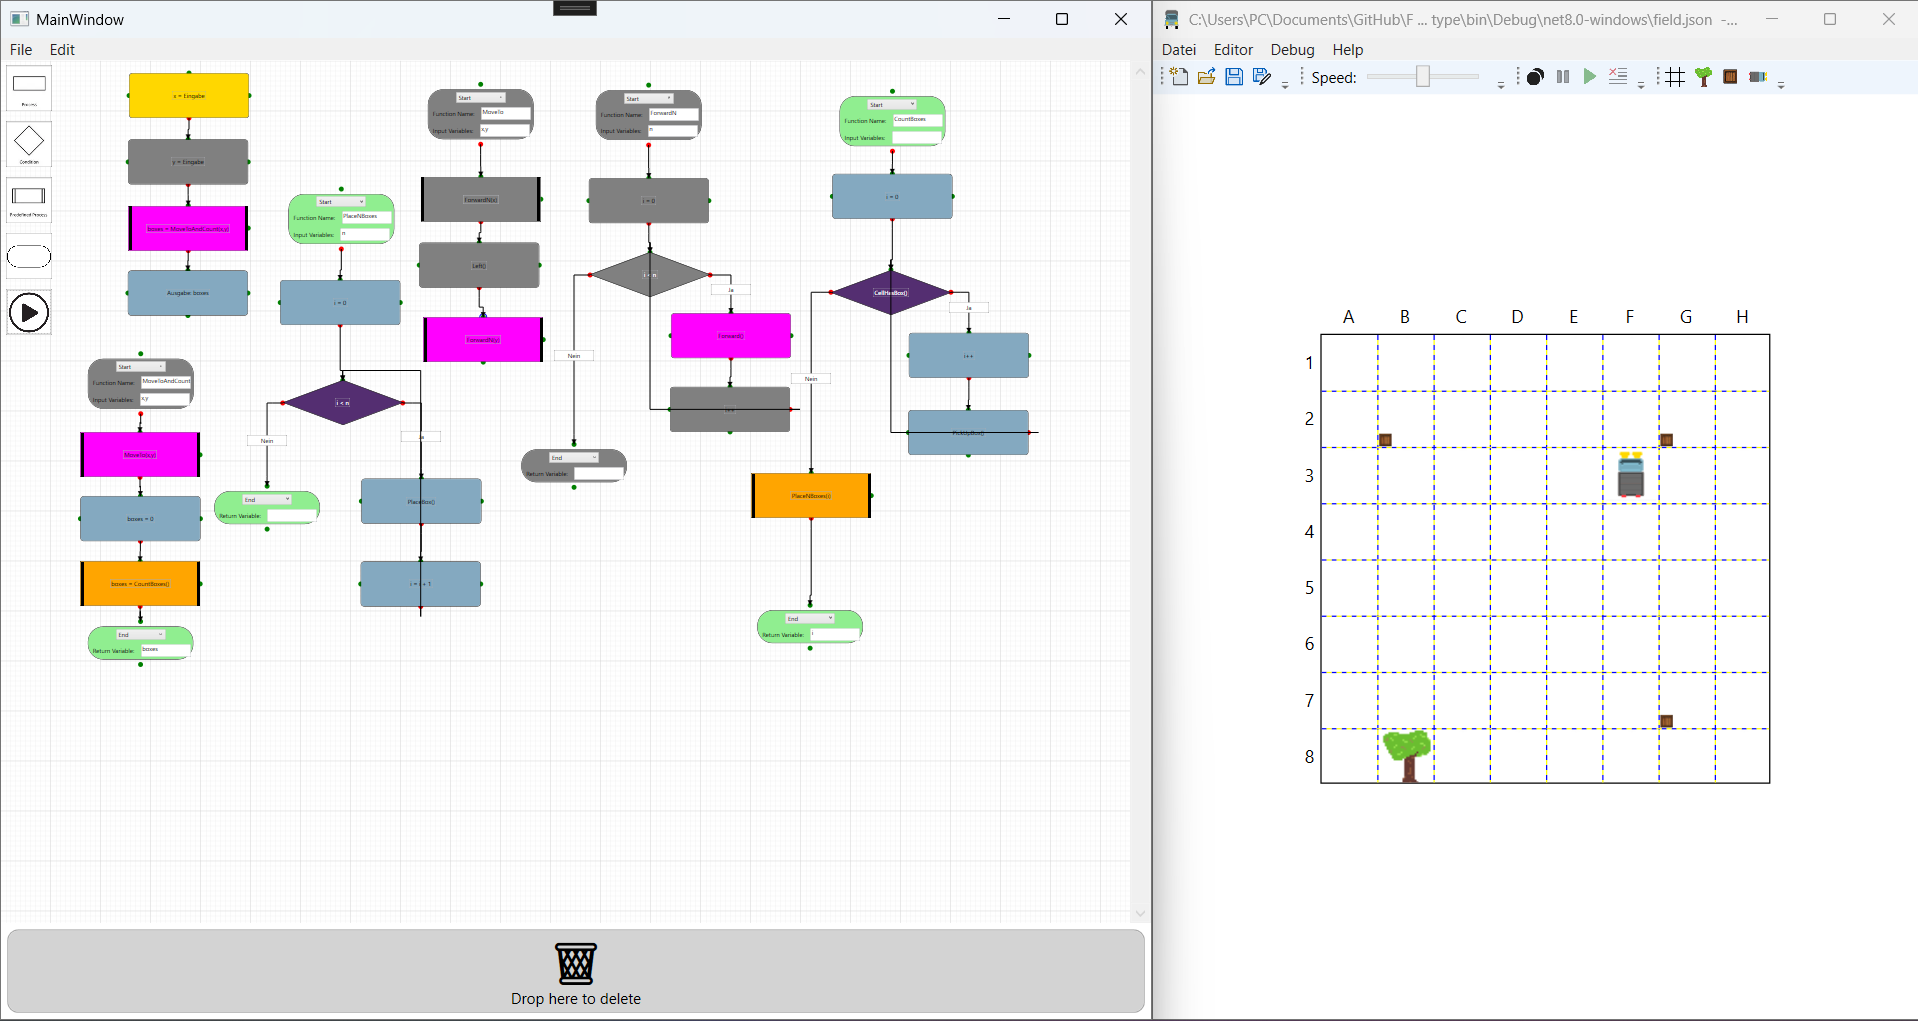
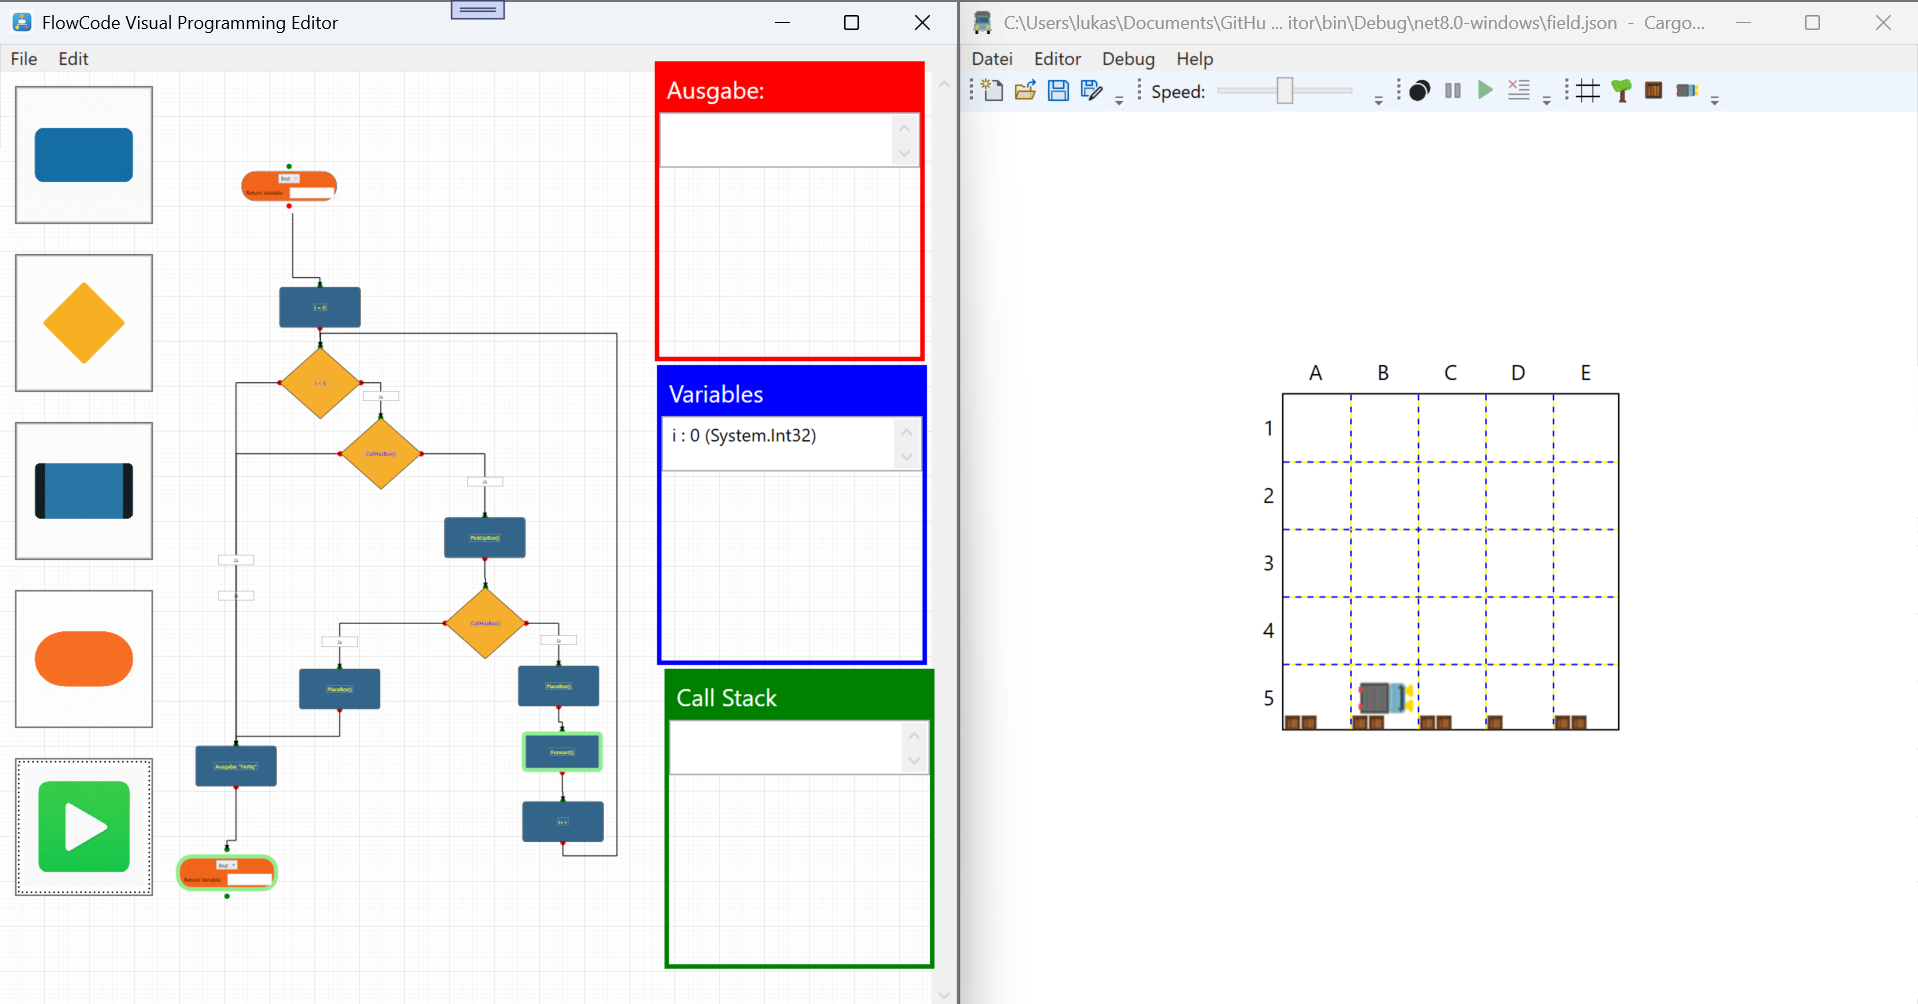
Update README and screenshots for flowchart examples
Added explanation and image for the for loop in FlowCode, and included a new Fibonacci Sequence screenshot. Updated existing screenshots for Cargotrucker and For-Loop-With-Output to reflect latest visuals.

diff --git a/README.md b/README.md
@@ -26,9 +26,12 @@ An input handler can be passed to the ActionNode class to handle input. Likewise
 ### Frontend 
 Flowcharts can be modelled in a WPF application. All currently supported node types can be used.
 
+
+A for loop (or counting loop) requires initialization, a boolean condition (answered with true/false), a loop body, and an increment (an update). The following graphic illustrates the implementation of a simple counting loop in FlowCode:
+
 ![For Loop](/Screenshots/For-Loop-With-Output.png "For Loop in FlowCode")
 
-
+![Fibonacci Sequence](/Hints/fibonacci.png "Fibonacci Sequence in FlowCode")
 
 ![Euclidean Algorithm as Flowchart](/Screenshots/Euklid.png "Euclidean Algorithm in FlowCode")
 
